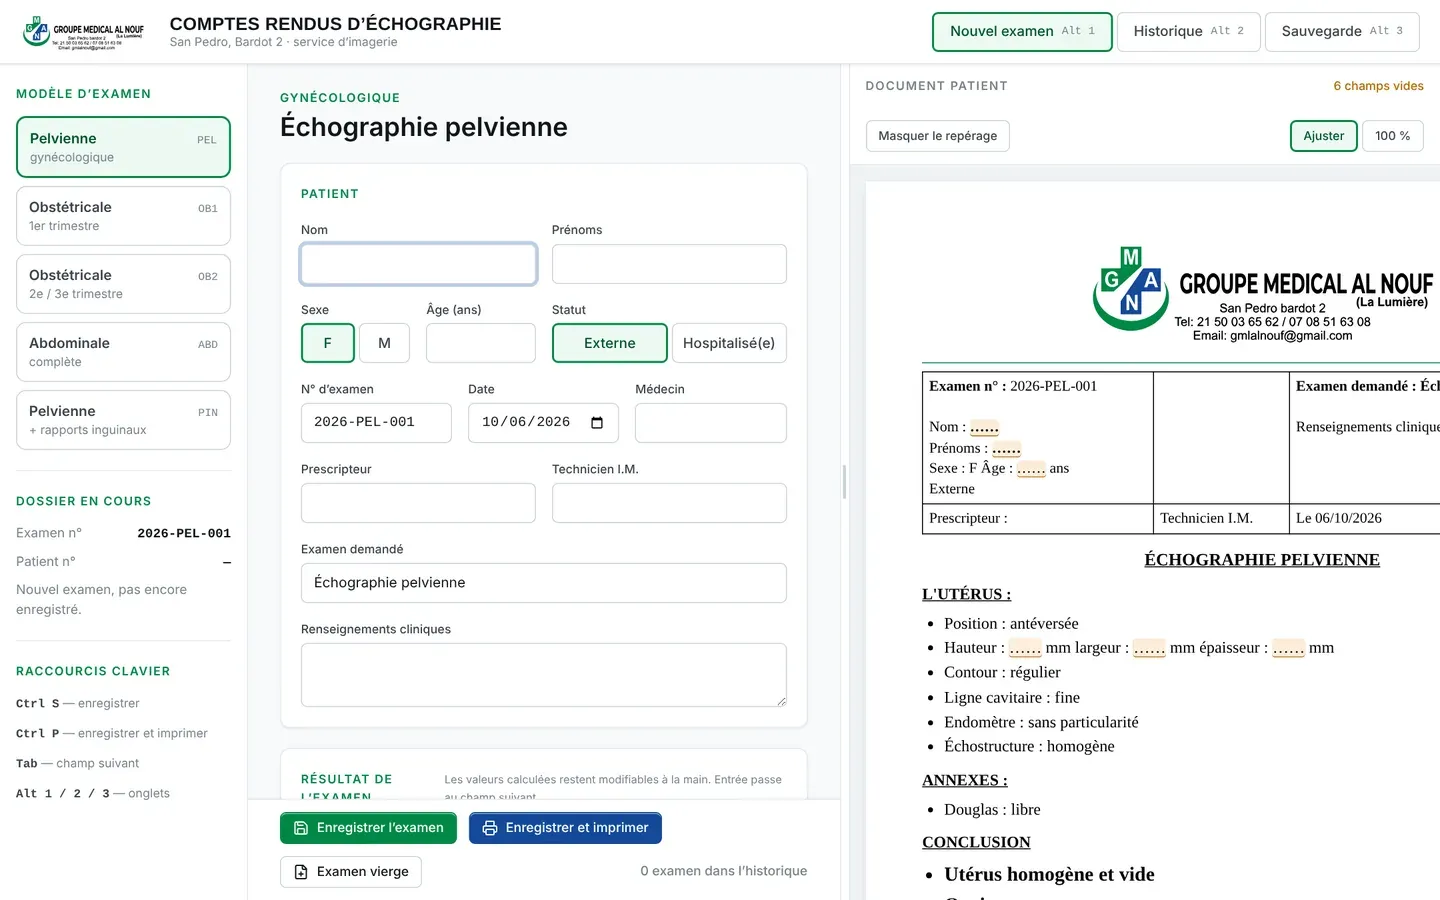
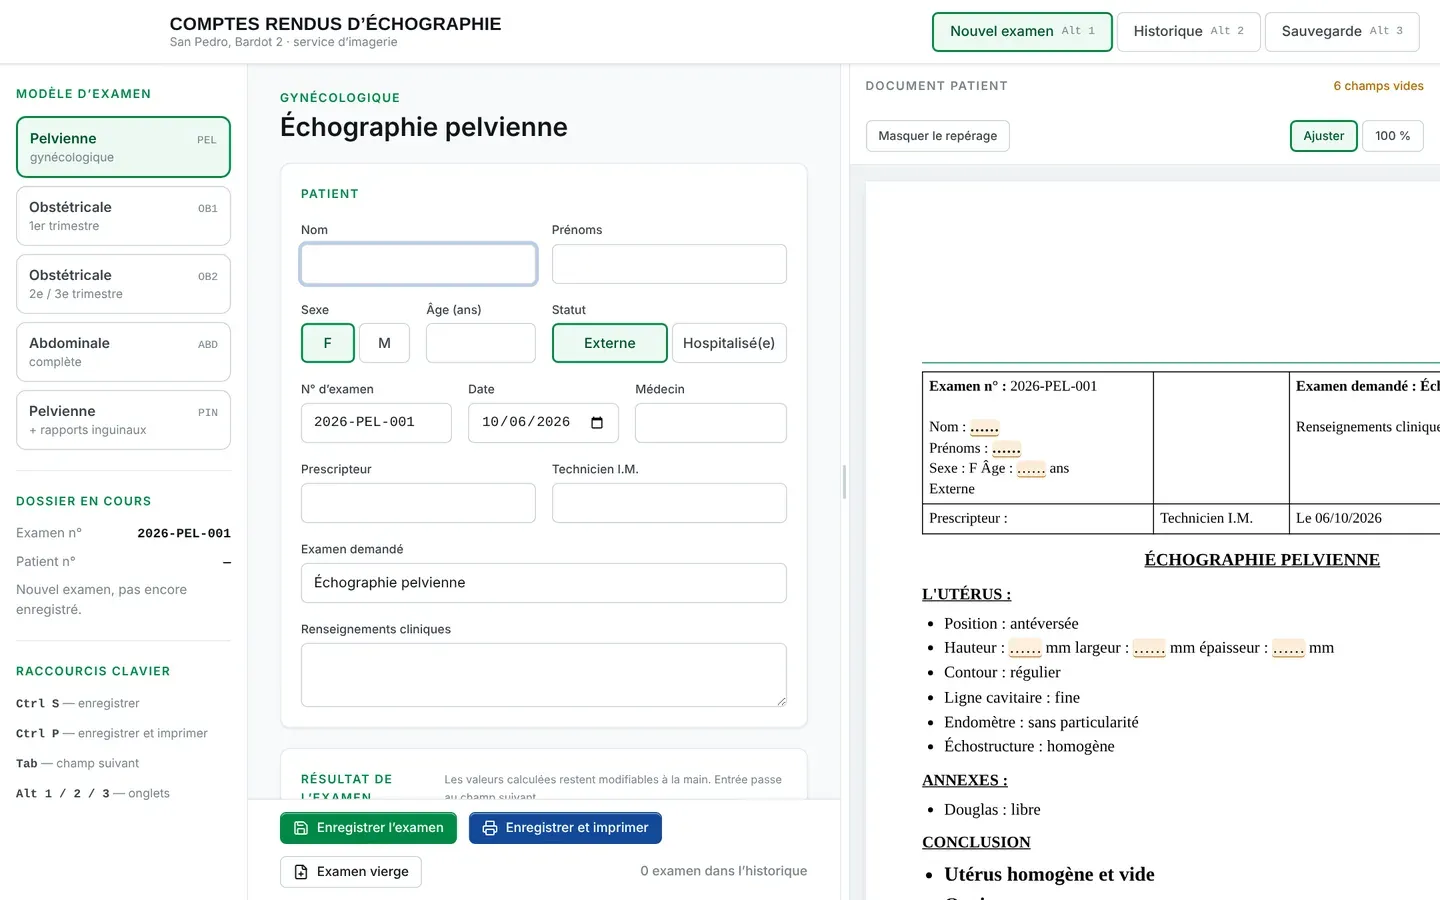
Hide the clinic letterhead on the screenshots
- RDVmed: crop the top bar (logo and clinic name) on the three screens;
  zoom points adjusted to the new height.
- Echography and laboratory: the letterhead sits inside the printed
  document, so it is covered with blank instead of cropping (the
  document stays visible); the clinic logo in the app header is
  hidden too, along with the address and phone line of the lab sheet.

Claude-Session: https://claude.ai/code/session_01RaoprENzm6sv8yMArwCjzA

Changed region(s): [[0.75, 0.28, 1.0, 0.4044], [0.0, 0.0, 0.0938, 0.0622]]

diff --git a/index.html b/index.html
@@ -360,19 +360,19 @@ a:focus-visible,button:focus-visible{outline:2px solid #6CCBEA;outline-offset:3p
     <div style="display:flex;flex-wrap:wrap;justify-content:center;gap:32px">
         <figure style="margin:0;display:flex;flex-direction:column;gap:10px;align-items:center">
           <div style="padding:5px;border-radius:30px;background:#000;border:1px solid #2A3741;box-shadow:0 30px 60px rgba(0,0,0,0.5)">
-            <img width="390" height="860" src="img/rdvmed-aujourdhui.webp" alt="RDVmed : Aujourd'hui" loading="lazy" style="width:234px;border-radius:25px">
+            <img width="390" height="796" src="img/rdvmed-aujourdhui.webp" alt="RDVmed : Aujourd'hui" loading="lazy" style="width:234px;border-radius:25px">
           </div>
           <figcaption style="font-family:'JetBrains Mono',monospace;font-size:11px;color:#7D8D99">Aujourd'hui</figcaption>
         </figure>
         <figure style="margin:0;display:flex;flex-direction:column;gap:10px;align-items:center">
           <div style="padding:5px;border-radius:30px;background:#000;border:1px solid #2A3741;box-shadow:0 30px 60px rgba(0,0,0,0.5)">
-            <img width="390" height="860" src="img/rdvmed-a-venir.webp" alt="RDVmed : À venir" loading="lazy" style="width:234px;border-radius:25px">
+            <img width="390" height="796" src="img/rdvmed-a-venir.webp" alt="RDVmed : À venir" loading="lazy" style="width:234px;border-radius:25px">
           </div>
           <figcaption style="font-family:'JetBrains Mono',monospace;font-size:11px;color:#7D8D99">À venir</figcaption>
         </figure>
         <figure style="margin:0;display:flex;flex-direction:column;gap:10px;align-items:center">
           <div style="padding:5px;border-radius:30px;background:#000;border:1px solid #2A3741;box-shadow:0 30px 60px rgba(0,0,0,0.5)">
-            <img width="390" height="860" src="img/rdvmed-historique.webp" alt="RDVmed : Historique" loading="lazy" style="width:234px;border-radius:25px">
+            <img width="390" height="796" src="img/rdvmed-historique.webp" alt="RDVmed : Historique" loading="lazy" style="width:234px;border-radius:25px">
           </div>
           <figcaption style="font-family:'JetBrains Mono',monospace;font-size:11px;color:#7D8D99">Historique</figcaption>
         </figure>

diff --git a/js/vitrine.js b/js/vitrine.js
@@ -112,12 +112,12 @@ const PROJECTS=[
    desc:'Suivi des rendez-vous et relance des patients par WhatsApp, SMS ou appel. Captures avec des patients fictifs.',
    screens:[
     {src:'img/rdvmed-aujourdhui.webp', alt:"RDVmed : écran Aujourd'hui avec un patient en retard (patients fictifs)", hotspots:[
-      {x:.45,y:.25,zoom:2.1,rx:12,ry:-12,label:'Les 14 prochains jours'},
-      {x:.30,y:.44,zoom:2.4,rx:8,ry:12,label:'Retards en premier'},
-      {x:.66,y:.605,zoom:2.5,rx:-8,ry:-10,label:'Relance WhatsApp, SMS, appel'}]},
+      {x:.45,y:.19,zoom:2.1,rx:12,ry:-12,label:'Les 14 prochains jours'},
+      {x:.30,y:.395,zoom:2.4,rx:8,ry:12,label:'Retards en premier'},
+      {x:.66,y:.573,zoom:2.5,rx:-8,ry:-10,label:'Relance WhatsApp, SMS, appel'}]},
     {src:'img/rdvmed-a-venir.webp', alt:'RDVmed : passages programmés (patients fictifs)', hotspots:[
-      {x:.40,y:.23,zoom:2.3,rx:10,ry:-10,label:'Filtres par motif'},
-      {x:.86,y:.30,zoom:2.6,rx:-6,ry:10,label:'Rendez-vous dans 2 jours'}]}]}
+      {x:.40,y:.168,zoom:2.3,rx:10,ry:-10,label:'Filtres par motif'},
+      {x:.86,y:.244,zoom:2.6,rx:-6,ry:10,label:'Rendez-vous dans 2 jours'}]}]}
 ];
 
 function createShowcase(root,projects,opts={}){
